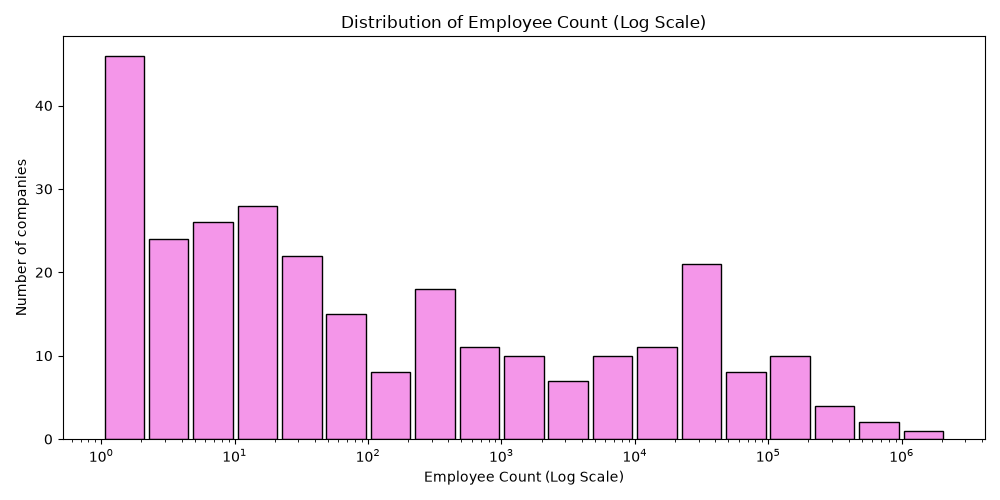
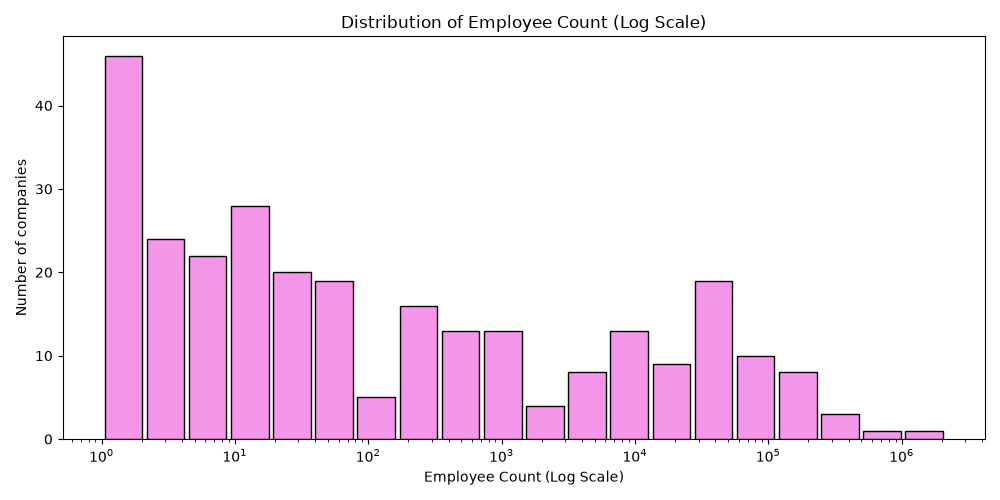
add revenue descriptive analysis and complete numerical distribution analysis

Changed region(s): [[0.186, 0.39, 0.93, 0.93], [0.124, 0.12, 0.155, 0.87], [0.093, 0.9, 0.124, 0.93]]

diff --git a/analysis/descriptive_statistics.py b/analysis/descriptive_statistics.py
@@ -58,7 +58,7 @@ def main():
     employee_bins = np.logspace(
         np.log10(employees.min()),
         np.log10(employees.max()),
-        20
+        21
     )
 
     plt.figure(figsize=(10, 5))
@@ -72,7 +72,37 @@ def main():
     print("Histogram saved!")
     plt.close()
 
+    revenue = df_unique['revenue'].dropna()
+    print("\nRevenue statistics:")
+    print(revenue.describe())
+    print("\nMedian:")
+    print(revenue.median())
 
+    print ("\nRevenue skewness:")
+    print(revenue.skew())
+    print("\nRevenue percentiles:")
+    print(revenue.quantile([0.25, 0.5, 0.75, 0.9, 0.95, 0.99]))
+
+    print("\nCompanies with highest revenue:")
+    highest_revenue = df_unique[["operational_name", "website", "revenue"]].sort_values(by="revenue", ascending=False)
+    print(highest_revenue.head(10).to_string(index=False))
+
+    revenue_bins = np.logspace(
+        np.log10(revenue.min()),
+        np.log10(revenue.max()),
+        21
+    )
+    plt.figure(figsize=(10, 5))
+    plt.hist(revenue, bins=revenue_bins, rwidth=0.9, color="#f388e7e1", edgecolor='black')
+    plt.xscale('log')
+    plt.title("Distribution of Estimated Annual Revenue (Log Scale)")
+    plt.xlabel("Annual Revenue in USD(Log Scale)")
+    plt.ylabel("Number of companies")
+    plt.tight_layout()
+    plt.savefig("analysis/figures/revenue_distribution_log_scale.png")
+    print("Histogram saved!")
+    plt.close()
+    
 
 if __name__ == "__main__":
     main()

diff --git a/WRITEUP.md b/WRITEUP.md
@@ -74,6 +74,7 @@ Rompetrol appears with both `rompetrol.ro` and `rompetrol.com` as websites. It's
     |---|---:|---:|---:|---:|---:|---:|---:|
     | `year_founded` | 334 | 1998.02 | 2011 | 1856 | 1988.25 | 2021 | 2025 |
     | `employee_count` | 282 | 25,713.29 | 39.5 | 1 | 5 | 3,575 | 2,100,000 |
+    | `revenue` | 375 | 11,739,971,055.56 | 19,506,407 | 7,524 | 2,343,482.5 | 1,781,447,870 | 2,500,388,591,944 |
     
 
   
@@ -91,6 +92,14 @@ Rompetrol appears with both `rompetrol.ro` and `rompetrol.com` as websites. It's
 A linear-scale histogram was initially inspected, but the very large values compressed most observations close to zero and made the distribution difficult to interpret. For this reason, I used logarithmic bins and a logarithmic x-axis in the final visualization.
 
 **Conclusion:** `employee_count` can be used directly for explicit constraints. However, missing values should be treated as unknown rather than automatic failures.
+
+![Distribution of Estimated Annual Revenue](analysis/figures/revenue_distribution_log_scale.png)
+
+**Interpretation:** The `revenue` field is highly right-skewed. The mean revenue (11.74 billion USD) is much larger than the median (19.51 million USD), while the maximum reaches 2.5 trillion USD. The skewness value of 18.95 and the upper precentiles confirm a long right tail.  
+
+Because the values span multiple orders of magnitude, a logarithmic x-axis was used in the final visualization to make the distribution easier to interpret.
+
+**Conclusion:** `revenue` can be used directly for explicit constraints. However, because the field is missing for some profiles, missing values should be treated as unknown, rather than automatic failures.
 
 
 ### 2.2 Query Analysis
